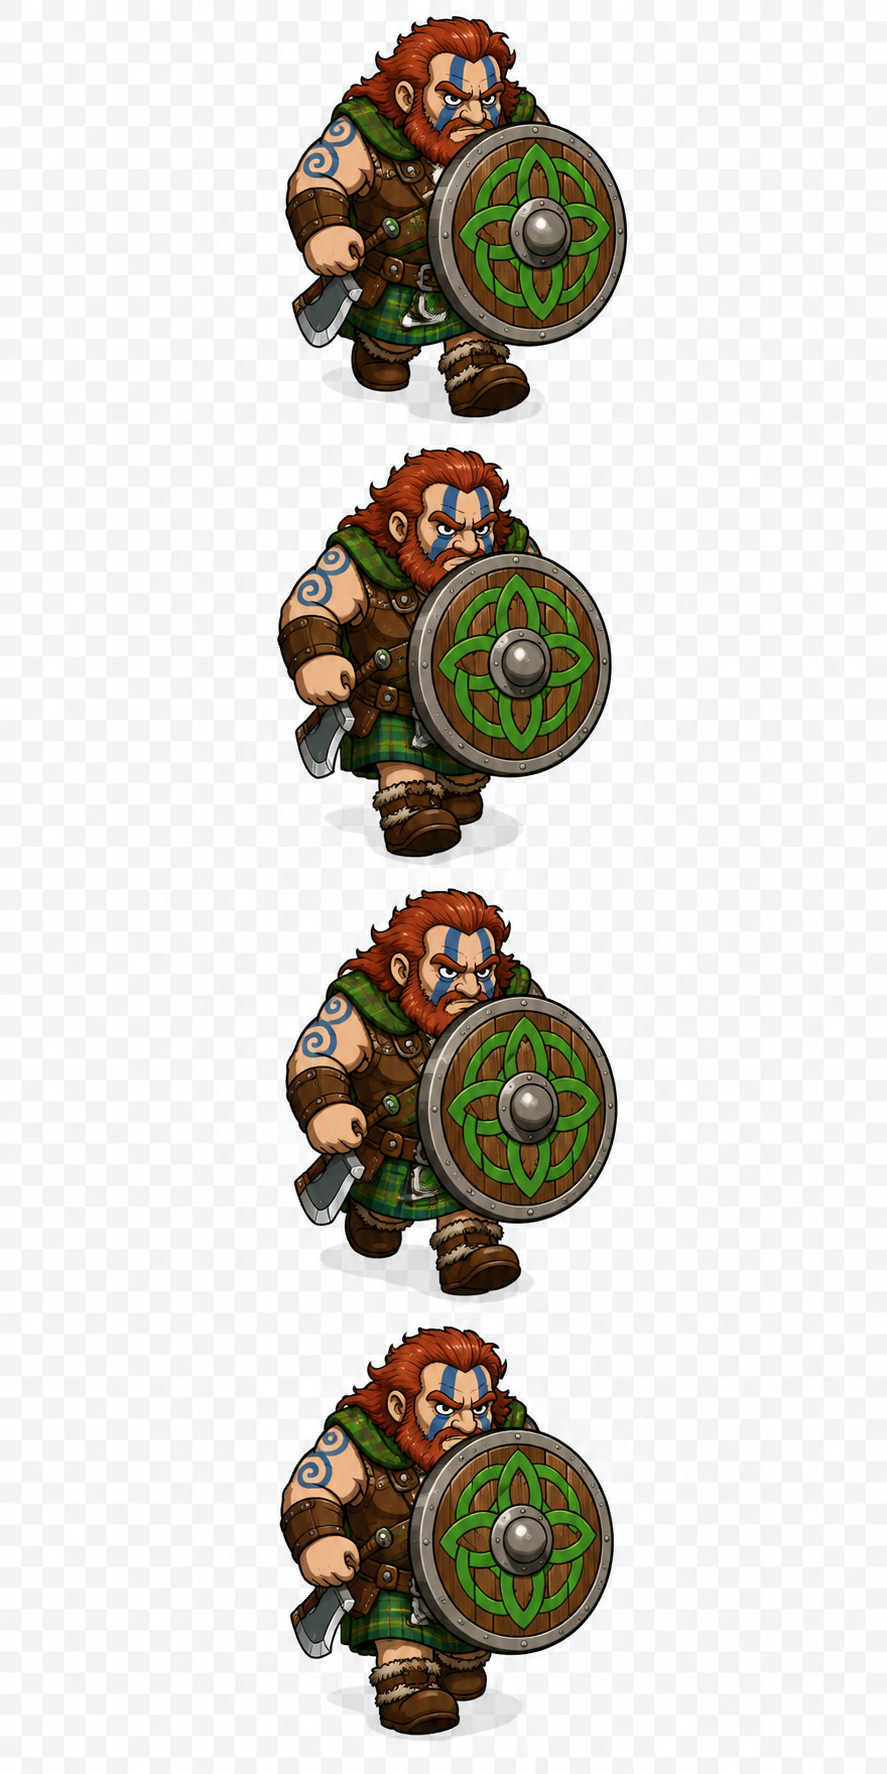
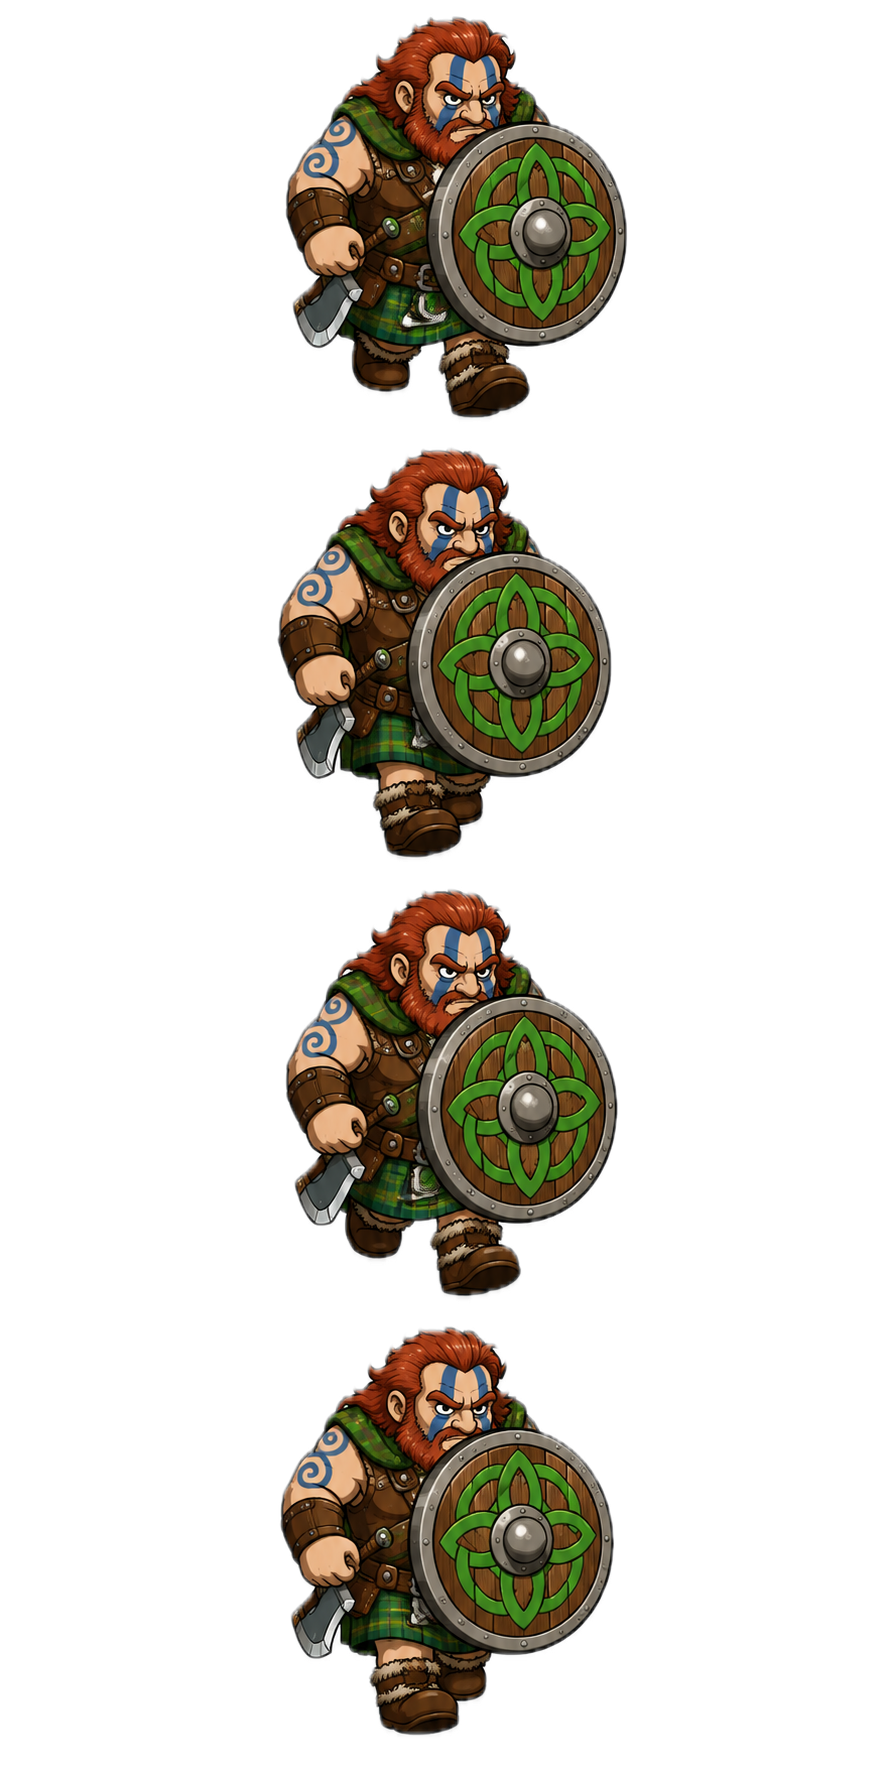
fix: World 1 complete screen shows only once, crafting tab layout fills screen, update shield bearer sprite

diff --git a/src/components/CraftingScreen.css b/src/components/CraftingScreen.css
@@ -1,7 +1,7 @@
 .crafting-root {
-  display: flex; flex-direction: column; gap: 14px;
-  padding: 16px 16px 120px;
-  min-height: 100%;
+  display: flex; flex-direction: column; gap: 10px;
+  padding: 14px 14px 16px;
+  flex: 1 1 0; min-height: 0;   /* fill remaining height, no scroll */
   background: #f5e6c0;
 }
 
@@ -18,11 +18,11 @@
 .crafting-resource-label { font-size: 11px; color: #7a5228; font-weight: 600; }
 
 .crafting-title {
-  font-family: 'Fredoka One', cursive; font-size: 26px;
+  font-family: 'Fredoka One', cursive; font-size: 22px;
   color: #3a1a05; margin: 0; text-align: center;
 }
 .crafting-subtitle {
-  font-size: 12px; color: #7a5228; text-align: center; margin: -8px 0 0;
+  font-size: 11px; color: #7a5228; text-align: center; margin: -6px 0 0;
 }
 
 .crafting-upgrades {
@@ -31,8 +31,8 @@
 
 .crafting-card {
   background: #fdf5e8; border: 2.5px solid #d4b896;
-  border-radius: 14px; padding: 14px;
-  display: flex; flex-direction: column; gap: 10px;
+  border-radius: 14px; padding: 12px;
+  display: flex; flex-direction: column; gap: 8px;
   box-shadow: 2px 2px 0 #c4a060;
 }
 .crafting-card--maxed {
@@ -77,7 +77,7 @@
 
 .crafting-upgrade-btn {
   display: flex; align-items: center; justify-content: space-between;
-  padding: 12px 16px; border-radius: 10px;
+  padding: 10px 16px; border-radius: 10px;
   background: #3a1a05; color: #f5e6c0;
   border: 2.5px solid #3a1a05;
   font-family: 'Fredoka One', cursive; font-size: 15px;

diff --git a/src/App.tsx b/src/App.tsx
@@ -152,6 +152,8 @@ export default function App() {
   const [showHeroesTabHint, setShowHeroesTabHint] = useState(false)
   const hasSeenShard = useRef(savedGame?.hasSeenShard ?? false)
   const hasSeenFrost = useRef(savedGame?.hasSeenFrost ?? false)
+  // Show World 1 complete screen only once — when the player first beats wave 10
+  const hasSeenWorld1Complete = useRef(savedGame ? (savedGame.wave > 10) : false)
   const buffs = mergeBuffs(permBuffs, computeBuffs(buffGrants))
   const hasAcademy = [...placedItems.values()].some(p => p.item.def.kind === 'academy')
 
@@ -540,8 +542,9 @@ export default function App() {
       setShowShieldIntro(true)
       return
     }
-    // Wave 10 win = World 1 complete — go to completion screen
-    if (wave > 10) {
+    // Wave 10 win = World 1 complete — show screen only the first time
+    if (wave > 10 && !hasSeenWorld1Complete.current) {
+      hasSeenWorld1Complete.current = true
       setPhase('world1-complete')
     } else {
       setPhase('trade')
@@ -862,7 +865,7 @@ export default function App() {
   // ── Crafting tab ──────────────────────────────────────────────────────────
   if (activeTab === 'crafting') {
     return (
-      <div className="game-container" style={{ overflowY: 'auto' }}>
+      <div className="game-container" style={{ display: 'flex', flexDirection: 'column' }}>
         <CraftingScreen
           gold={gold}
           wood={wood}